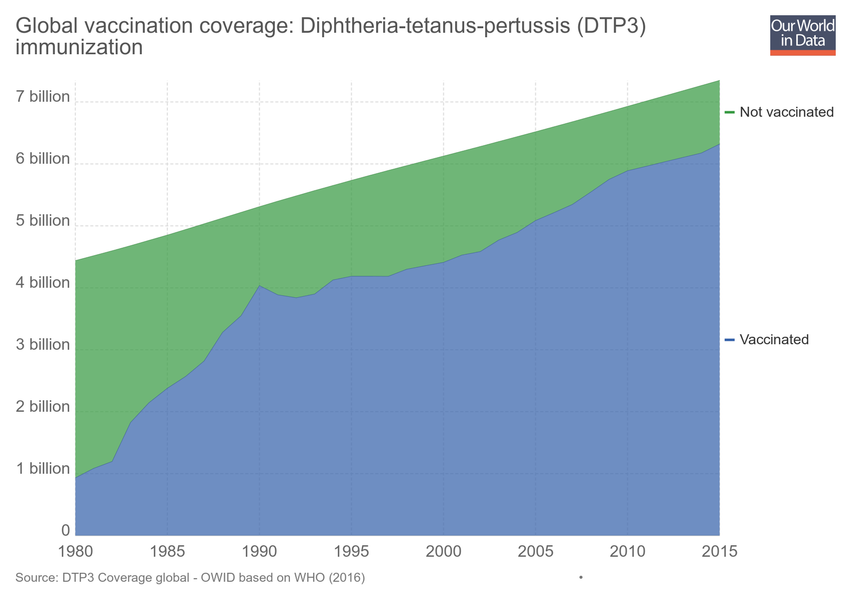
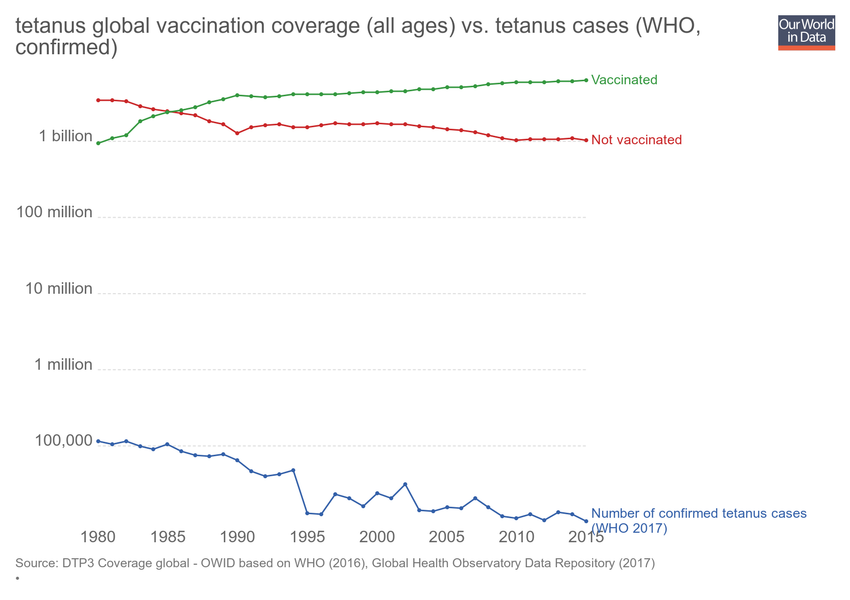
Publishing chart diphtheria-tetanus-pertussis-dtp3-immunization-global

diff --git a/grapher/diphtheria-tetanus-pertussis-dtp3-immunization-global.html b/grapher/diphtheria-tetanus-pertussis-dtp3-immunization-global.html
@@ -1,4 +1,4 @@
-<!doctype html><html><head><meta name="viewport" content="width=device-width, initial-scale=1" /><title>Global vaccination coverage: Diphtheria-tetanus-pertussis (DTP3) immunization - Our World in Data</title><meta name="description" content="An interactive visualization from Our World in Data." /><link rel="canonical" href="https://ourworldindata.org/grapher/diphtheria-tetanus-pertussis-dtp3-immunization-global" /><meta property="fb:app_id" content="1149943818390250" /><meta property="og:url" content="https://ourworldindata.org/grapher/diphtheria-tetanus-pertussis-dtp3-immunization-global" /><meta property="og:title" content="Global vaccination coverage: Diphtheria-tetanus-pertussis (DTP3) immunization" /><meta property="og:description" content="An interactive visualization from Our World in Data." /><meta property="og:image" content="https://ourworldindata.org/grapher/exports/diphtheria-tetanus-pertussis-dtp3-immunization-global.png?v=1" /><meta property="og:image:width" content="850" /><meta property="og:image:height" content="600" /><meta property="og:site_name" content="Our World in Data" /><meta name="twitter:card" content="summary_large_image" /><meta name="twitter:site" content="@OurWorldInData" /><meta name="twitter:creator" content="@OurWorldInData" /><meta name="twitter:title" content="Global vaccination coverage: Diphtheria-tetanus-pertussis (DTP3) immunization" /><meta name="twitter:description" content="An interactive visualization from Our World in Data." /><meta name="twitter:image" content="https://ourworldindata.org/grapher/exports/diphtheria-tetanus-pertussis-dtp3-immunization-global.png?v=1" /><style>
+<!doctype html><html><head><meta name="viewport" content="width=device-width, initial-scale=1" /><title>tetanus global vaccination coverage (all ages) vs. tetanus cases (WHO, confirmed) - Our World in Data</title><meta name="description" content="An interactive visualization from Our World in Data." /><link rel="canonical" href="https://ourworldindata.org/grapher/diphtheria-tetanus-pertussis-dtp3-immunization-global" /><meta property="fb:app_id" content="1149943818390250" /><meta property="og:url" content="https://ourworldindata.org/grapher/diphtheria-tetanus-pertussis-dtp3-immunization-global" /><meta property="og:title" content="tetanus global vaccination coverage (all ages) vs. tetanus cases (WHO, confirmed)" /><meta property="og:description" content="An interactive visualization from Our World in Data." /><meta property="og:image" content="https://ourworldindata.org/grapher/exports/diphtheria-tetanus-pertussis-dtp3-immunization-global.png?v=4" /><meta property="og:image:width" content="850" /><meta property="og:image:height" content="600" /><meta property="og:site_name" content="Our World in Data" /><meta name="twitter:card" content="summary_large_image" /><meta name="twitter:site" content="@OurWorldInData" /><meta name="twitter:creator" content="@OurWorldInData" /><meta name="twitter:title" content="tetanus global vaccination coverage (all ages) vs. tetanus cases (WHO, confirmed)" /><meta name="twitter:description" content="An interactive visualization from Our World in Data." /><meta name="twitter:image" content="https://ourworldindata.org/grapher/exports/diphtheria-tetanus-pertussis-dtp3-immunization-global.png?v=4" /><style>
         html, body {
             height: 100%;
             margin: 0;
@@ -20,8 +20,8 @@
         }
     </style><noscript><style>
                     figure { display: none !important; }
-                </style></noscript><link rel="stylesheet" href="https://ourworldindata.org/grapher/assets/commons.bundle.d1e2accae4e6b5a73553.css" /><link rel="preload" href="/grapher/data/variables/1470+1471.json?v=1" as="fetch" crossorigin /></head><body class="singleChart"><figure data-grapher-src="/grapher/diphtheria-tetanus-pertussis-dtp3-immunization-global"></figure><noscript id="fallback"><img src="/grapher/exports/diphtheria-tetanus-pertussis-dtp3-immunization-global.svg" /><p>Interactive visualization requires JavaScript</p></noscript><script src="https://cdn.polyfill.io/v2/polyfill.min.js?features=es6,fetch"></script><script src="https://ourworldindata.org/grapher/assets/commons.bundle.d1e2accae4e6b5a73553.js"></script><script src="https://ourworldindata.org/grapher/assets/charts.bundle.d1e2accae4e6b5a73553.js"></script><script>
-        var jsonConfig = {"id":402,"map":{"mode":"specific","projection":"World","targetYear":1980,"timeRanges":[],"variableId":1470,"defaultYear":1980,"isColorblind":false,"timelineMode":"slider","timeTolerance":1,"legendStepSize":20,"targetYearMode":"latest","baseColorScheme":"BuGn","colorSchemeInvert":false,"colorSchemeLabels":[],"colorSchemeValues":[],"defaultProjection":"World","legendDescription":"","legendOrientation":"portrait","customColorsActive":false,"customNumericColors":[],"customCategoryColors":[],"customCategoryLabels":[],"customHiddenCategories":[]},"tab":"chart","slug":"diphtheria-tetanus-pertussis-dtp3-immunization-global","type":"StackedArea","logos":["OWD"],"title":"Global vaccination coverage: Diphtheria-tetanus-pertussis (DTP3) immunization","units":"[{\"property\":\"y\",\"visible\":true,\"title\":\"\",\"unit\":\"people\",\"format\":\"\"}]","xAxis":{"scaleType":"linear"},"yAxis":{"min":0,"scaleType":"linear","labelDistance":-10},"margins":{"top":"10","left":"90","right":"10","bottom":"10"},"version":1,"hasMapTab":false,"originUrl":"https://ourworldindata.org/vaccination/","stackMode":"absolute","dimensions":[{"id":294,"order":0,"chartId":402,"display":{"name":"Not vaccinated","unit":"people","tolerance":5,"isProjection":false},"property":"y","targetYear":null,"variableId":1470},{"id":295,"order":1,"chartId":402,"display":{"name":"Vaccinated","unit":"people","tolerance":5,"isProjection":false},"property":"y","targetYear":null,"variableId":1471}],"entityType":"country","hideLegend":false,"hasChartTab":true,"isPublished":true,"selectedData":[{"index":0,"entityId":355},{"index":1,"entityId":355}],"internalNotes":"","addCountryMode":"change-country","activeLegendKeys":null,"group-by-variables":false,"hideRelativeToggle":false,"hideTitleAnnotation":true};
+                </style></noscript><link rel="stylesheet" href="https://ourworldindata.org/grapher/assets/commons.bundle.d1e2accae4e6b5a73553.css" /><link rel="preload" href="/grapher/data/variables/1470+1471+8543.json?v=4" as="fetch" crossorigin /></head><body class="singleChart"><figure data-grapher-src="/grapher/diphtheria-tetanus-pertussis-dtp3-immunization-global"></figure><noscript id="fallback"><img src="/grapher/exports/diphtheria-tetanus-pertussis-dtp3-immunization-global.svg" /><p>Interactive visualization requires JavaScript</p></noscript><script src="https://cdn.polyfill.io/v2/polyfill.min.js?features=es6,fetch"></script><script src="https://ourworldindata.org/grapher/assets/commons.bundle.d1e2accae4e6b5a73553.js"></script><script src="https://ourworldindata.org/grapher/assets/charts.bundle.d1e2accae4e6b5a73553.js"></script><script>
+        var jsonConfig = {"id":3082,"map":{"projection":"World","targetYear":1980,"variableId":1470,"timeTolerance":1,"baseColorScheme":"BuGn","colorSchemeInvert":false,"colorSchemeLabels":[],"colorSchemeValues":[],"legendDescription":"","customColorsActive":false,"customNumericColors":[],"customCategoryColors":[],"customCategoryLabels":[],"customHiddenCategories":[]},"tab":"chart","slug":"diphtheria-tetanus-pertussis-dtp3-immunization-global","type":"LineChart","title":"tetanus global vaccination coverage (all ages) vs. tetanus cases (WHO, confirmed)","xAxis":{"scaleType":"linear"},"yAxis":{"min":0,"scaleType":"log","labelDistance":-10,"canChangeScaleType":true},"version":4,"hasMapTab":false,"originUrl":"https://ourworldindata.org/vaccination/","stackMode":"absolute","dimensions":[{"display":{"name":"Not vaccinated","unit":"people","tolerance":5,"isProjection":false},"property":"y","variableId":1470},{"display":{"name":"Vaccinated","unit":"people","tolerance":5,"isProjection":false},"property":"y","variableId":1471},{"display":{},"property":"y","variableId":8543}],"entityType":"country","hideLegend":false,"hasChartTab":true,"isPublished":true,"selectedData":[{"index":0,"entityId":355},{"index":1,"entityId":355},{"index":2,"entityId":355},{"index":3,"entityId":355}],"internalNotes":"","addCountryMode":"change-country","hideRelativeToggle":false,"hideTitleAnnotation":true};
         var figure = document.getElementsByTagName("figure")[0];
         try {
             window.App = {};
